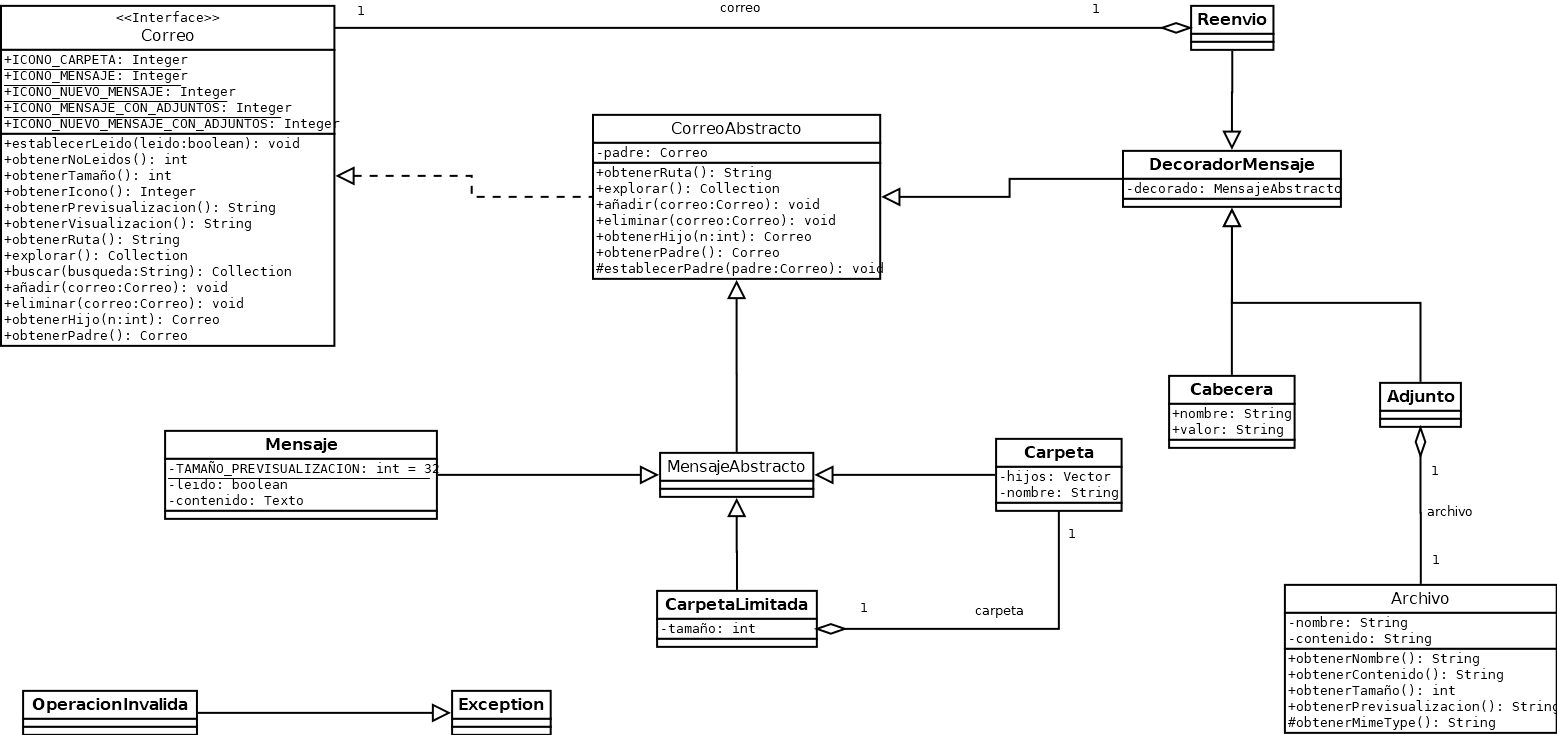
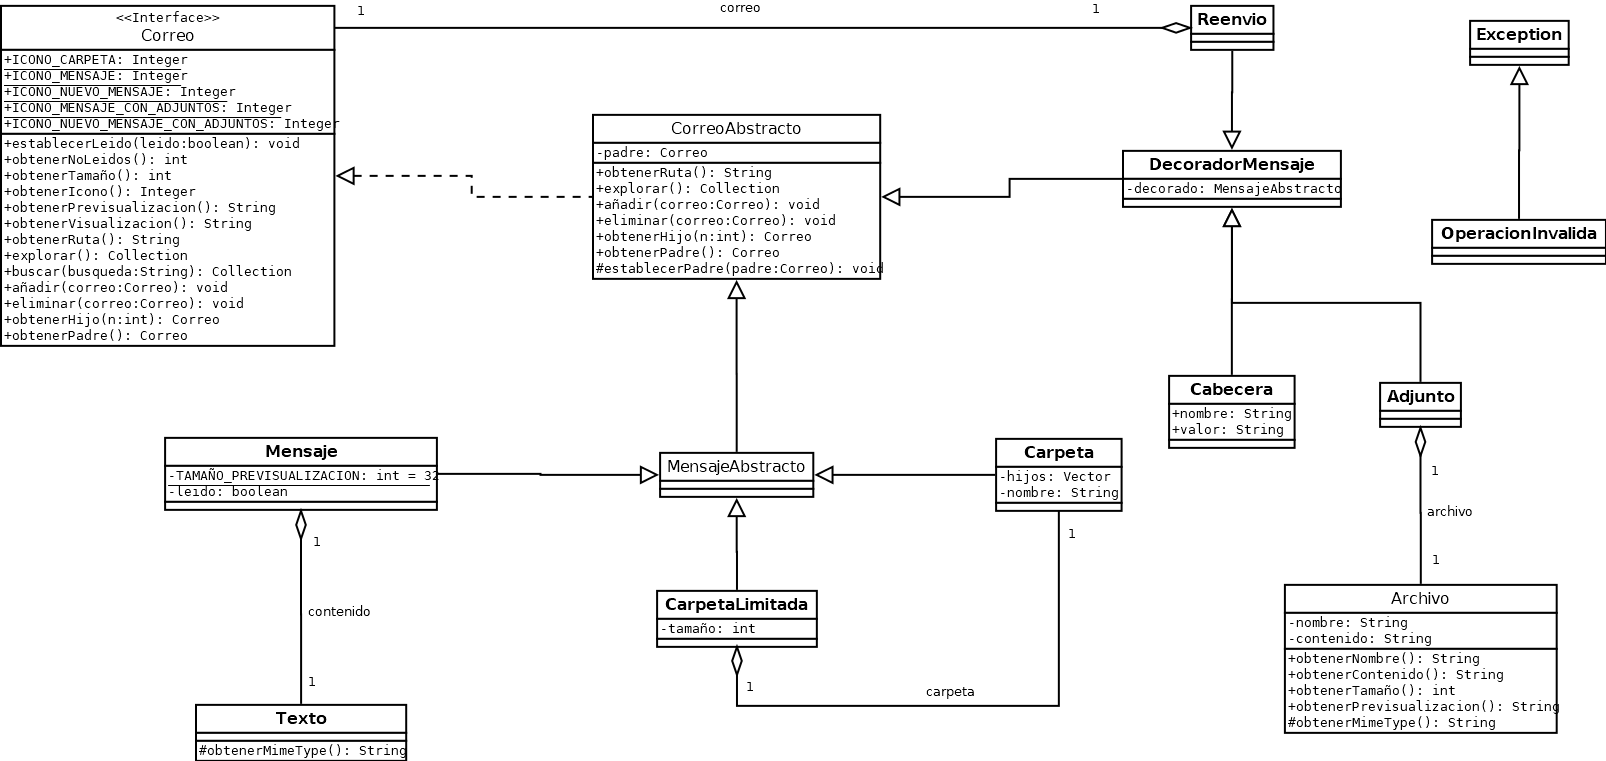
segunda prueba de unidad + correccion primera + actualizacion diagrama correo

diff --git a/src/test/java/gal/udc/fic/vvs/email/AppTest.java b/src/test/java/gal/udc/fic/vvs/email/AppTest.java
@@ -5,10 +5,18 @@ import static org.junit.Assert.assertTrue;
 
 import java.lang.reflect.InvocationTargetException;
 import java.lang.reflect.Method;
+import java.util.Vector;
 
 import org.junit.Test;
 
+import gal.udc.fic.vvs.email.archivador.ArchivadorSimple;
 import gal.udc.fic.vvs.email.archivo.Texto;
+import gal.udc.fic.vvs.email.correo.Carpeta;
+import gal.udc.fic.vvs.email.correo.CarpetaLimitada;
+import gal.udc.fic.vvs.email.correo.Correo;
+import gal.udc.fic.vvs.email.correo.CorreoAbstracto;
+import gal.udc.fic.vvs.email.correo.Mensaje;
+import gal.udc.fic.vvs.email.correo.OperacionInvalida;
 
 /**
  * Unit test for simple App.
@@ -22,15 +30,42 @@ public class AppTest {
         assertTrue(true);
     }
 
+    // Archivador
     @Test
-    public void testTextoObtenerMimeType() throws NoSuchMethodException, SecurityException, IllegalAccessException,
-            IllegalArgumentException, InvocationTargetException {
+    public void testArchivadorSimpleAlmacenarCorreo() {
+        Texto contenido = new Texto("nombre","c");
+        Carpeta carpeta = new Carpeta("nombre");
+
+        Correo correoHijo = new Mensaje(contenido);
+        Correo correoPadre = new CarpetaLimitada(carpeta, 1);
+        
+        try {
+            correoPadre.añadir(correoHijo);
+            System.out.println("Tam correo: " + correoPadre.obtenerTamaño());
+        } catch (OperacionInvalida e) {
+            e.printStackTrace();
+        }
+        ArchivadorSimple archi = new ArchivadorSimple("", 5);
+        archi.almacenarCorreo(correoPadre);
+        assertEquals(4, archi.obtenerEspacioDisponible());
+    }
+
+    //Archivo
+    @Test
+    public void testTextoObtenerMimeType() {
         Texto texto = new Texto("nombre", "contenido");
 
-        Method method = Texto.class.getDeclaredMethod("obtenerMimeType");
-        method.setAccessible(true);
-        String output = (String) method.invoke(texto);
- 
-        assertEquals(output, "text/plain");
+
+        String output = "";
+        try {
+            Method method = Texto.class.getDeclaredMethod("obtenerMimeType");
+            method.setAccessible(true);
+            output = (String) method.invoke(texto);
+        } catch (NoSuchMethodException | SecurityException | IllegalAccessException |
+            IllegalArgumentException | InvocationTargetException e) {
+                e.printStackTrace();
+        }
+        
+        assertEquals("text/plain", output);
     }
 }

diff --git a/src/main/java/gal/udc/fic/vvs/email/correo/Carpeta.java b/src/main/java/gal/udc/fic/vvs/email/correo/Carpeta.java
@@ -69,9 +69,9 @@ public class Carpeta extends CorreoAbstracto {
     }
 
     public void añadir(Correo correo) throws OperacionInvalida {
-	if (correo.obtenerPadre() != null) {
-	    correo.obtenerPadre().eliminar(correo);
-	}
+        if (correo.obtenerPadre() != null) {
+            correo.obtenerPadre().eliminar(correo);
+        }
         ((CorreoAbstracto) correo).establecerPadre(this);
         _hijos.addElement(correo);
     }
@@ -83,7 +83,7 @@ public class Carpeta extends CorreoAbstracto {
     }
 
     public Correo obtenerHijo(int n) throws OperacionInvalida {
-	return ((Correo)_hijos.elementAt(n));
+	    return ((Correo)_hijos.elementAt(n));
 
     }
 
